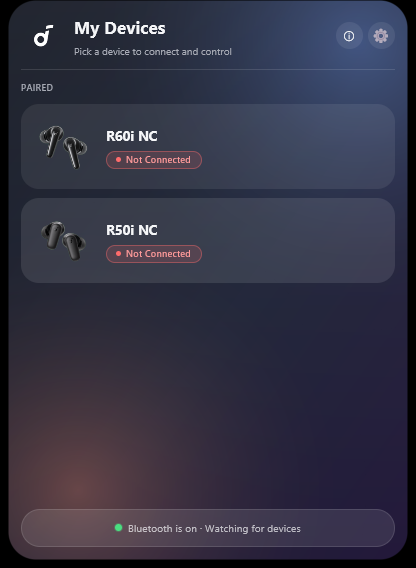
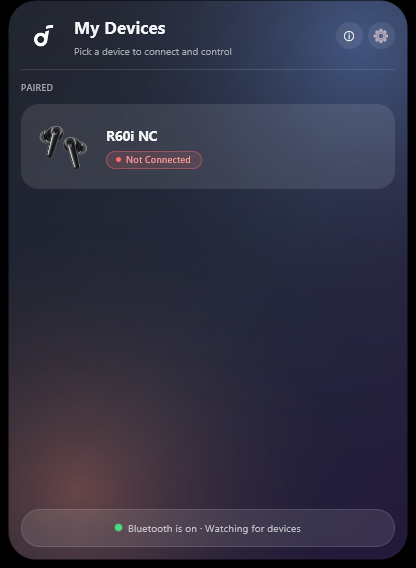
docs: add supported devices list and refresh screenshots

Changed region(s): [[0.25, 0.3891, 0.5, 0.4789], [0.0938, 0.3891, 0.2188, 0.4789]]

diff --git a/README.md b/README.md
@@ -36,6 +36,57 @@
   <img src="assets/screenshots/settings.png" width="200" alt="Settings">
 </div>
 
+## Supported Devices
+
+SoundCore-Desktop supports the following Soundcore models. The model ID is the value used in `config.toml` (`model = "..."`).
+
+| Device | Model ID |
+|--------|----------|
+| Soundcore Q20I | `SoundcoreA3004` |
+| Soundcore Q11i | `SoundcoreA3005` |
+| Soundcore Life Q35 | `SoundcoreA3027` |
+| Soundcore Q30 / Life Q30 | `SoundcoreA3028` |
+| Soundcore Life Tune | `SoundcoreA3029` |
+| Soundcore Life Tune Pro | `SoundcoreA3030` |
+| Soundcore Vortex | `SoundcoreA3031` |
+| Soundcore Life 2 Neo | `SoundcoreA3033` |
+| Soundcore Space One | `SoundcoreA3035` |
+| Soundcore Space Q45 | `SoundcoreA3040` |
+| Soundcore Space One Pro | `SoundcoreA3062` |
+| Soundcore Motion+ | `SoundcoreA3116` |
+| Soundcore C30i | `SoundcoreA3330` |
+| Soundcore AeroClip | `SoundcoreA3388` |
+| Soundcore V20i | `SoundcoreA3876` |
+| Soundcore Liberty 2 Pro | `SoundcoreA3909` |
+| Soundcore Life Dot 2S | `SoundcoreA3926` |
+| Soundcore Liberty 2 Pro+ | `SoundcoreA3930` |
+| Soundcore Life Dot 2 NC | `SoundcoreA3931` |
+| Soundcore Life Note 3 | `SoundcoreA3933` |
+| Soundcore Life A2 NC | `SoundcoreA3935` |
+| Soundcore Space A40 | `SoundcoreA3936` |
+| Soundcore Life P3 | `SoundcoreA3939` |
+| Soundcore Life P2 Mini | `SoundcoreA3944` |
+| Soundcore Life Note 3S | `SoundcoreA3945` |
+| Soundcore Liberty 4 NC | `SoundcoreA3947` |
+| Soundcore A20i | `SoundcoreA3948` |
+| Soundcore P20i / P25i / R50i | `SoundcoreA3949` |
+| Soundcore Liberty Air 2 Pro | `SoundcoreA3951` |
+| Soundcore Liberty 3 Pro | `SoundcoreA3952` |
+| Soundcore Liberty 4 | `SoundcoreA3953` |
+| Soundcore Liberty 4 Pro | `SoundcoreA3954` |
+| Soundcore P40i | `SoundcoreA3955` |
+| Soundcore Liberty 5 | `SoundcoreA3957` |
+| Soundcore P30i / R50i NC | `SoundcoreA3959` |
+| Soundcore Sport X20 | `SoundcoreA3968` |
+| Soundcore C50i | `SoundcoreD1101` |
+| Soundcore P31i | `SoundcoreD1202` |
+| Soundcore R60i NC | `SoundcoreD1202C` |
+| Soundcore Liberty 5 Pro Max | `SoundcoreD1204` |
+| Soundcore Sleep A30 | `SoundcoreD1301` |
+| Soundcore Space 2 | `SoundcoreD1402` |
+
+If your device is not listed, open **Protocol Lab** from Settings, capture its traffic, and send the generated report — that data is what is needed to add support.
+
 ## Tech Stack
 
 - UI: GPUI (Rust)
